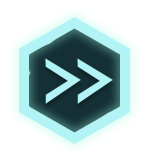
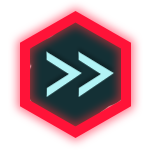
pickup sprites has side view, ui art update

diff --git a/ts/GameObjects/Interactable/Perspective/Pickup.ts b/ts/GameObjects/Interactable/Perspective/Pickup.ts
@@ -18,13 +18,6 @@ export default class Pickup extends ReactivePerspectiveObject
         this.addChild(this.sprite);
     }
 
-    /** Reset the pickup to its default values */
-    public reset(lane: Lanes): void
-    {
-        this.lane = lane;
-        this.position.set(0, 0);
-    }
-
     /** Tell the collision class that it should check if the pickup is colliding with the player */
     private initiateCollision(): void
     {
@@ -60,6 +53,32 @@ export default class Pickup extends ReactivePerspectiveObject
         if (this.zPos > 1 && this.zPos < 1.4)
         {
             this.initiateCollision();
+        }
+    }
+
+    public changeLane( lane: Lanes, overwriteOldPosition: boolean = false): Phaser.Signal
+    {
+        let changeLaneTweenOnComplete: Phaser.Signal = super.changeLane(lane, overwriteOldPosition);
+
+        if (!changeLaneTweenOnComplete) { return; }
+
+        changeLaneTweenOnComplete.addOnce( () => {
+            this.changeSprite();
+        });
+
+        return changeLaneTweenOnComplete;
+    }
+    public changeSprite(): void {
+        if (this.lane === Lanes.topCenterLane || this.lane === Lanes.bottomCenterLane)
+        {
+            this.sprite.frameName = 'laying hexagon';
+        } else if (this.lane === Lanes.topRightLane || this.lane === Lanes.bottomRightLane)
+        {
+            this.sprite.frameName = 'laying hexagon_side';
+        } else
+        {
+            this.sprite.frameName = 'laying hexagon_side';
+            this.sprite.scale.x = -this.sprite.scale.x;
         }
     }
 

diff --git a/ts/Systems/PickupSpawner.ts b/ts/Systems/PickupSpawner.ts
@@ -69,6 +69,7 @@ export default class PickupSpawner extends Phaser.Group
             this.game.add.tween(pickup).to({alpha: 1}, 500,  Phaser.Easing.Linear.None, true);
 
             this.sendToBack(pickup);
+            pickup.changeSprite();
         }
 
         return pickup;

diff --git a/ts/Rendering/Sprites/PerspectiveObject.ts b/ts/Rendering/Sprites/PerspectiveObject.ts
@@ -48,7 +48,6 @@ export default class PerspectiveObject extends Phaser.Group
 
         this.yPos = targetPosition.y;
         this.xPos = targetPosition.x;
-
         this.changingLane = false;
 
     }
